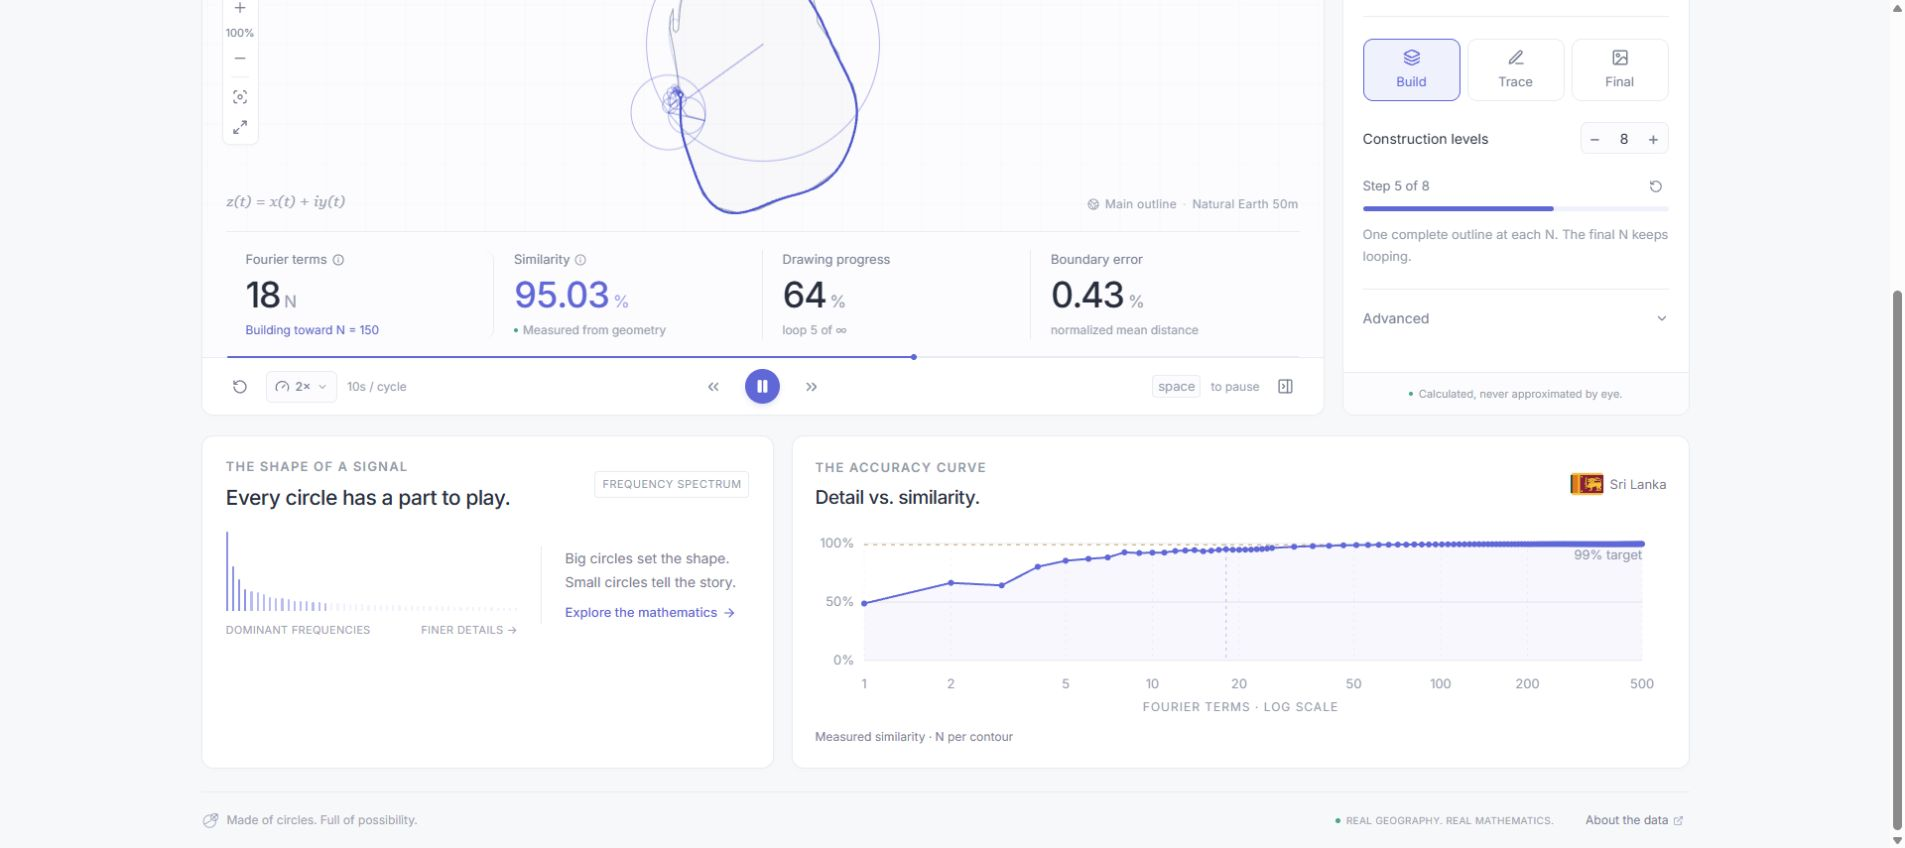
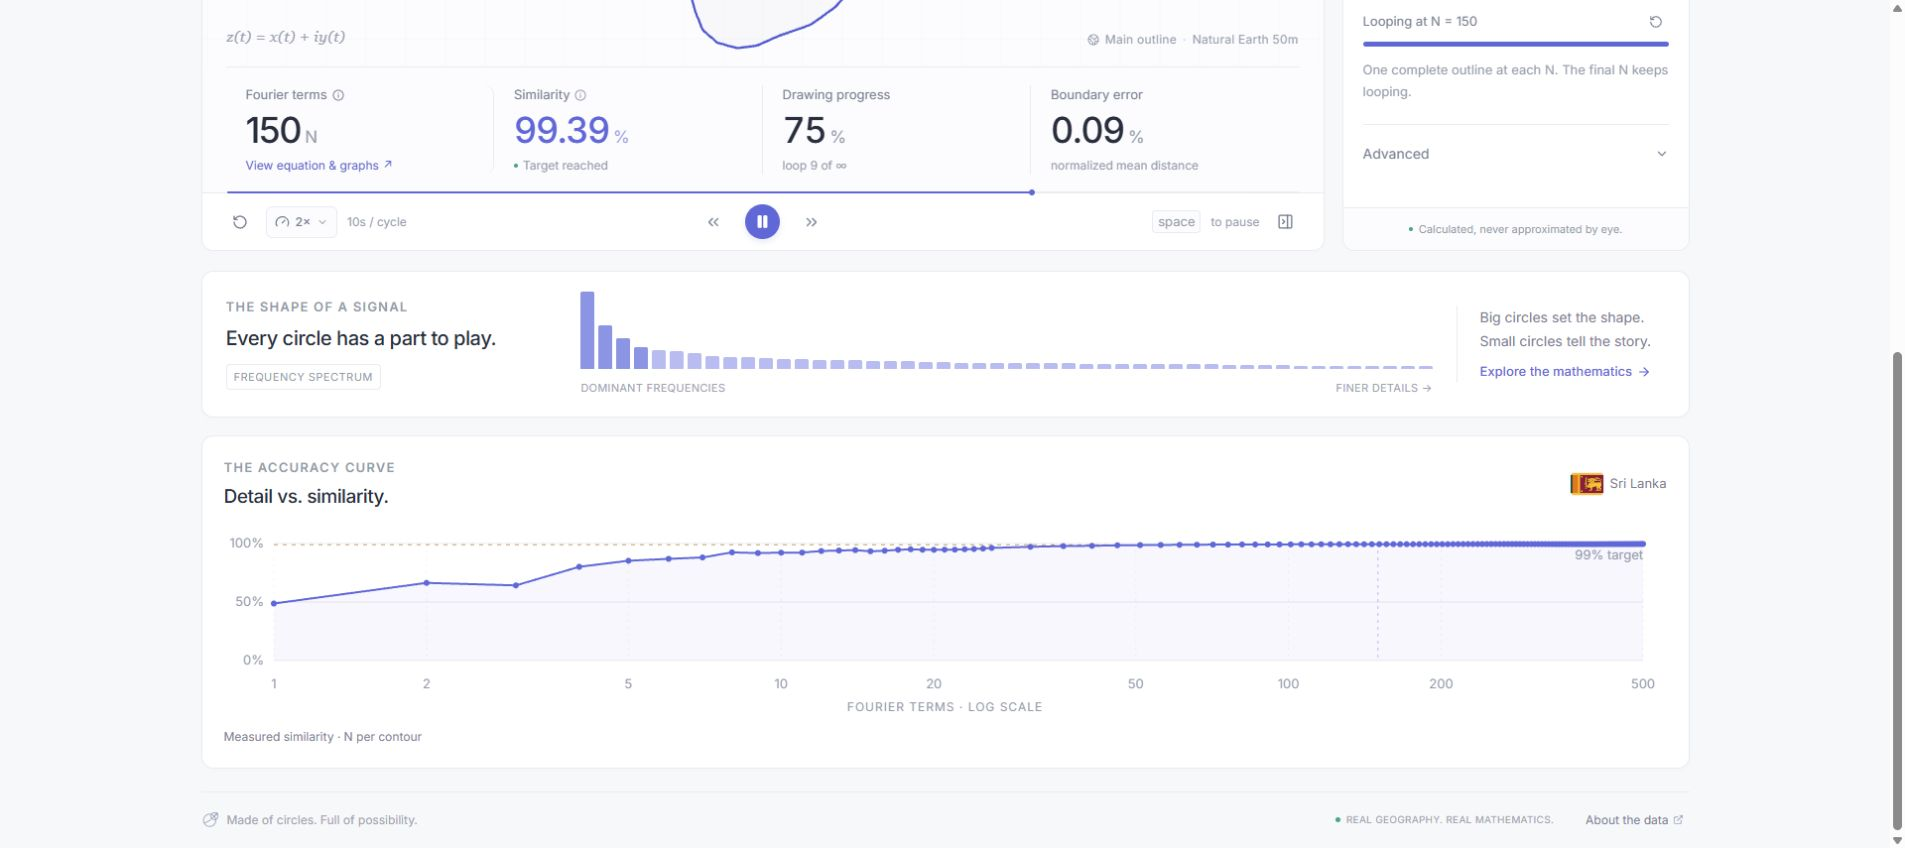
Give Studio charts full width and natural compact heights

diff --git a/src/styles.css b/src/styles.css
@@ -6714,7 +6714,8 @@ footer svg {
   height: calc(100% - 38px);
 }
 .studio-bottom {
-  grid-template-columns: minmax(0, 0.78fr) minmax(0, 1.22fr);
+  grid-template-columns: minmax(0, 1fr);
+  align-items: start;
 }
 .studio-accuracy {
   padding: 22px;
@@ -7788,5 +7789,33 @@ footer svg {
   }
   .auto-curve-status {
     font-size: 11px;
+  }
+}
+
+/* Let the two Studio explanations use their own natural height. */
+.studio-bottom .spectrum-card {
+  padding: 20px 24px;
+}
+.studio-bottom .spectrum-bars {
+  height: 78px;
+}
+@media (min-width: 1100px) {
+  .studio-bottom .spectrum-card {
+    display: grid;
+    grid-template-columns: minmax(220px, 0.3fr) minmax(0, 1fr);
+    align-items: center;
+    gap: 30px;
+  }
+  .studio-bottom .spectrum-card .card-heading {
+    flex-direction: column;
+    align-items: flex-start;
+    gap: 12px;
+  }
+  .studio-bottom .spectrum-layout {
+    margin-top: 0;
+  }
+  .studio-bottom .spectrum-card h2 {
+    font-size: 20px;
+    line-height: 1.4;
   }
 }

diff --git a/README.md b/README.md
@@ -15,7 +15,7 @@
 - **Difficulty Lab:** watch intermediate reconstructions beside the chart, then explore all measured countries in a full-width scrolling flag chart. Select table countries in a fixed side preview and open them in Studio. [Country preview](docs/screenshots/country-preview.jpg).
 - **Visual settings:** compact controls with matching coastline resolution previews, Japan’s islands, and South Africa’s interior hole. [Preview](docs/screenshots/settings-previews.jpg).
 - **Playback:** drag between marked speeds up to 8×; cycle time stays linked in both directions. [Preview](docs/screenshots/playback.jpg).
-- **Studio accuracy:** a wider curve updates automatically for the selected country and computation settings, with no calculate button. [Preview](docs/screenshots/studio-accuracy.jpg).
+- **Studio accuracy:** a full-width curve below a shallow spectrum panel updates automatically for the selected country and computation settings, with no calculate button. [Preview](docs/screenshots/studio-accuracy.jpg).
 - **Compare:** two to four countries with synchronized playback and distinct flag-derived colours. Accuracy curves update automatically; logarithmic N axes and every N from 1–25 in Studio and Compare reveal early detail. [Curve preview](docs/screenshots/compare-curves.jpg).
 - **Export:** PNG, SVG, WebM, settings, coefficients, and measured CSV data. Shareable URLs and local presets included.
 
